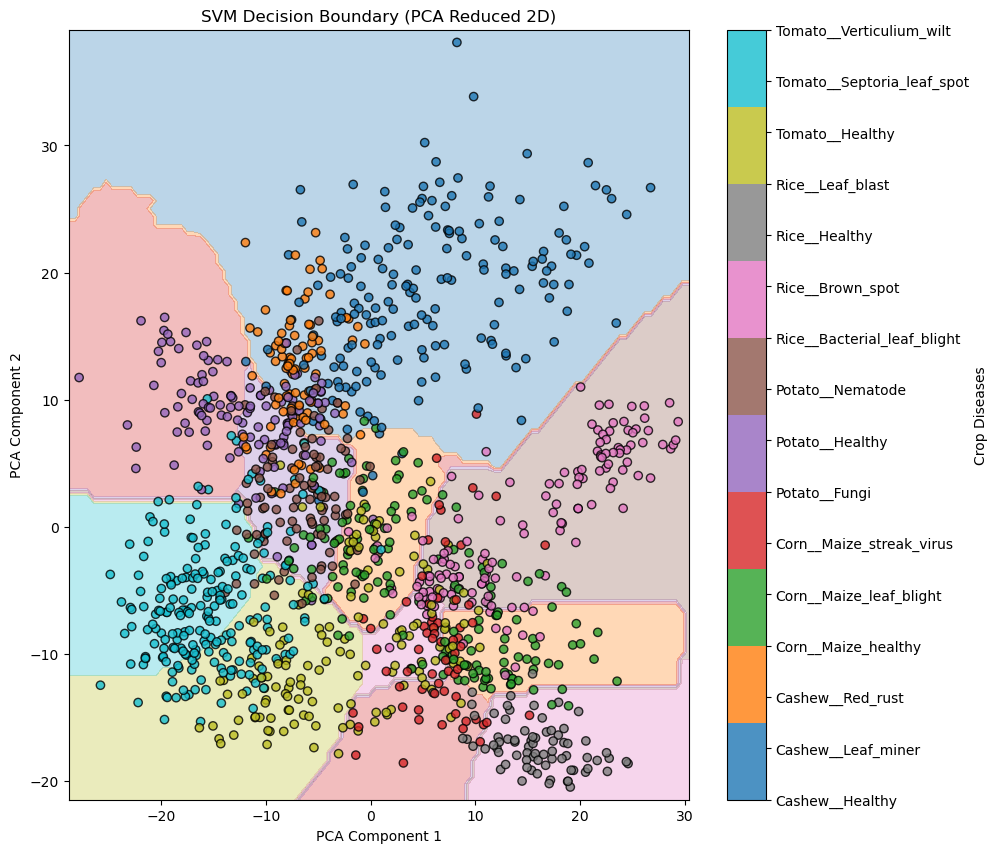
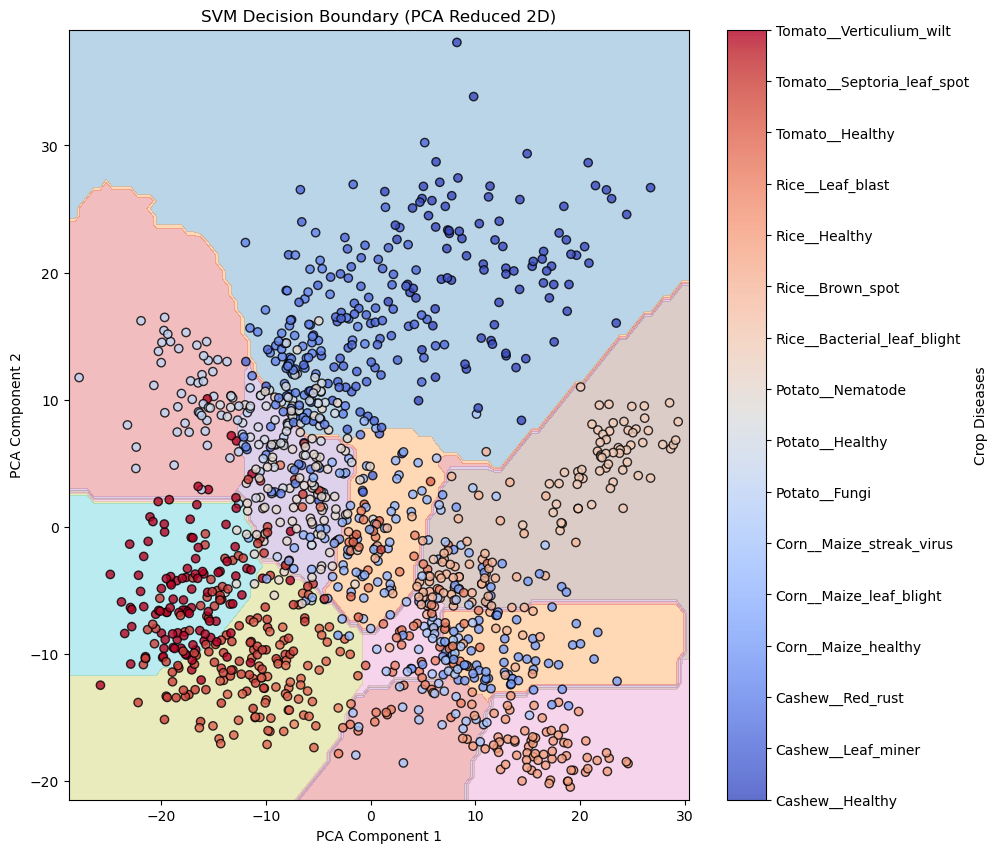
Updated decision boundary

diff --git a/train_SVM.py b/train_SVM.py
@@ -107,7 +107,7 @@ def main():
         xlabel='PCA Component 1',
         ylabel='PCA Component 2'
     )
-    scatter = ax.scatter(test_features_2d[:, 0], test_features_2d[:, 1], c=test_labels, cmap='tab10', edgecolors='k', alpha=0.8)
+    scatter = ax.scatter(test_features_2d[:, 0], test_features_2d[:, 1], c=test_labels, cmap='coolwarm', edgecolors='k', alpha=0.8)
     
     # Add the colorbar to the plot
     cbar = plt.colorbar(scatter, ax=ax)